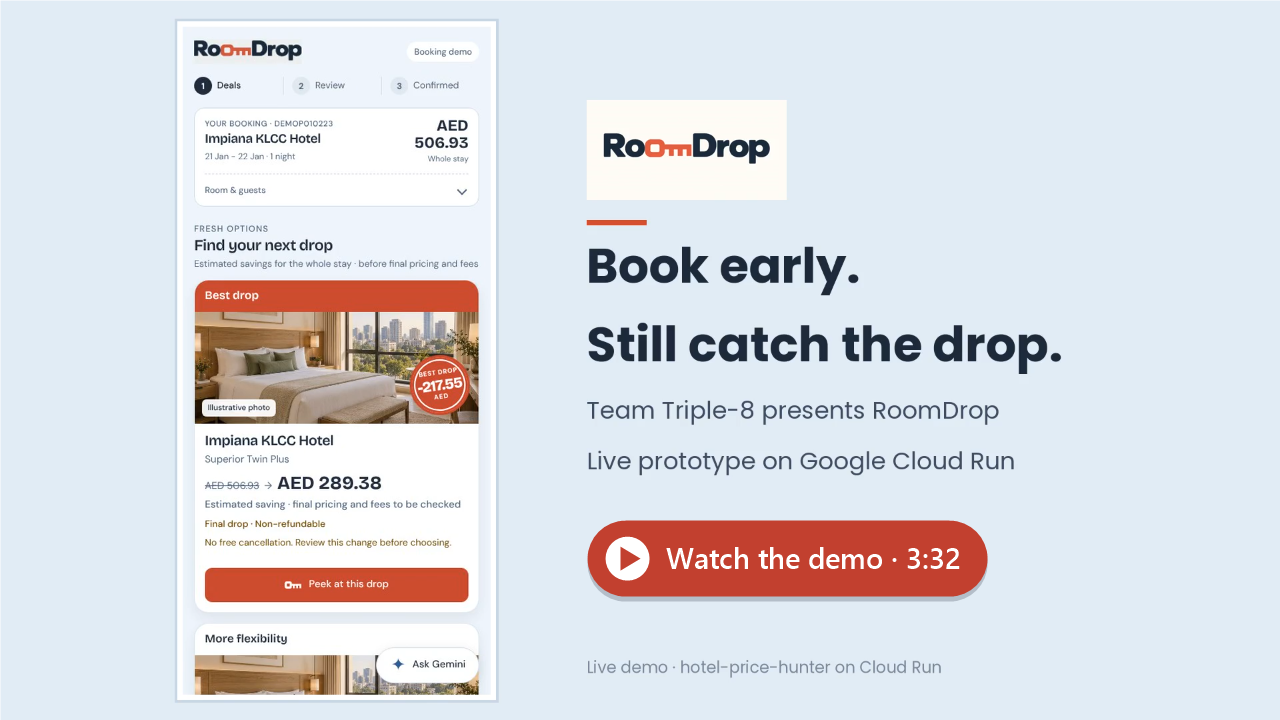
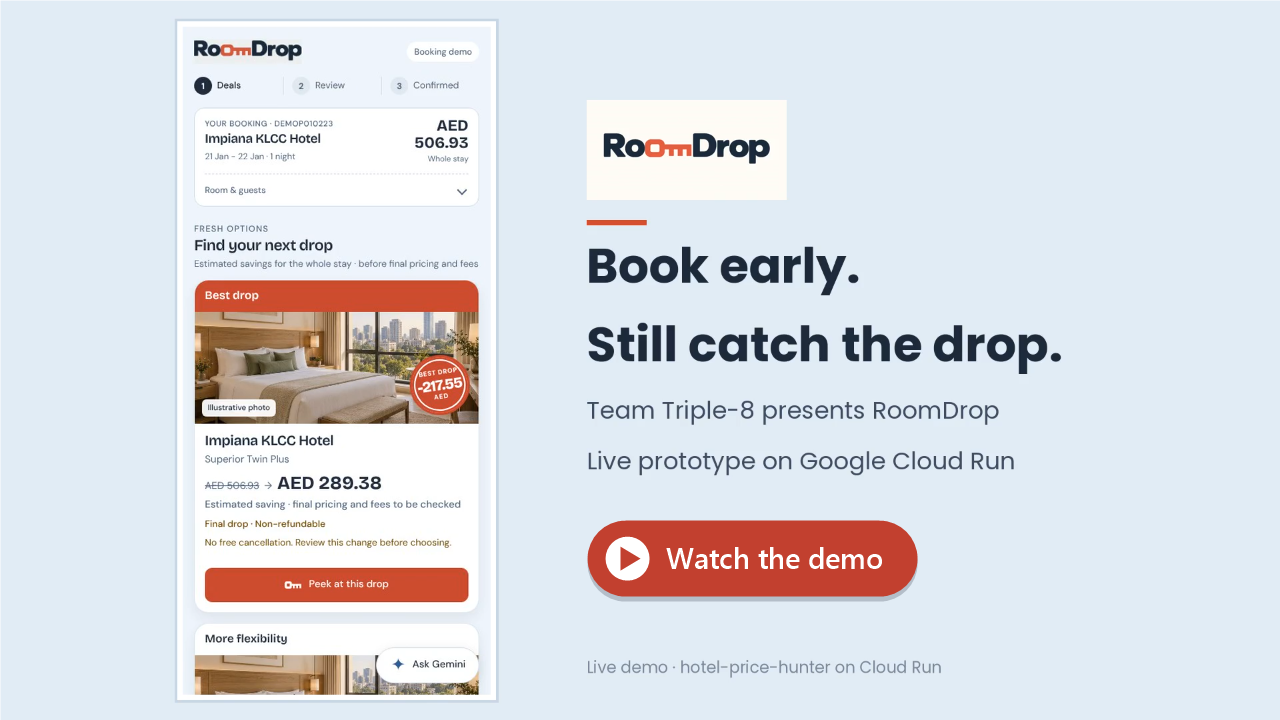
docs: link the README demo video to YouTube
Claude-Session: https://claude.ai/code/session_01WS6kkUC8mfpWSBeTEp1y3K

Changed region(s): [[0.6875, 0.7028, 0.7812, 0.8556]]

diff --git a/README.md b/README.md
@@ -10,7 +10,7 @@
 
 <p align="center">
   <a href="https://hotel-price-hunter-2qbcpylngq-as.a.run.app"><img alt="Try the live demo" src="https://img.shields.io/badge/Try_the_live_demo-c2402f?style=for-the-badge&logo=googlecloud&logoColor=white"></a>
-  <a href="submission/roomdrop-demo.mp4"><img alt="Watch the video" src="https://img.shields.io/badge/Watch_the_video-202c3b?style=for-the-badge&logo=youtube&logoColor=white"></a>
+  <a href="https://youtube.com/shorts/zKe3UFlgUNc"><img alt="Watch the video" src="https://img.shields.io/badge/Watch_the_video-202c3b?style=for-the-badge&logo=youtube&logoColor=white"></a>
   <a href="https://aibuildercup.com"><img alt="AI Builder Cup 2026" src="https://img.shields.io/badge/AI_Builder_Cup-2026-f5c542?style=for-the-badge"></a>
 </p>
 
@@ -26,11 +26,11 @@
 ## 🎬 See it in action
 
 <p align="center">
-  <a href="submission/roomdrop-demo.mp4">
-    <img src="submission/readme/demo-video-poster.png" alt="Watch the RoomDrop demo (3:32)" width="820">
+  <a href="https://youtube.com/shorts/zKe3UFlgUNc">
+    <img src="submission/readme/demo-video-poster.png" alt="Watch the RoomDrop demo on YouTube" width="820">
   </a>
   <br>
-  <sub>Click to play the 3:32 demo, or <a href="https://hotel-price-hunter-2qbcpylngq-as.a.run.app">try it yourself</a>: pick a booking, set your minimum and watch the drops land.</sub>
+  <sub>Click to watch the demo on YouTube, or <a href="https://hotel-price-hunter-2qbcpylngq-as.a.run.app">try it yourself</a>: pick a booking, set your minimum and watch the drops land.</sub>
 </p>
 
 ## 💡 The idea
